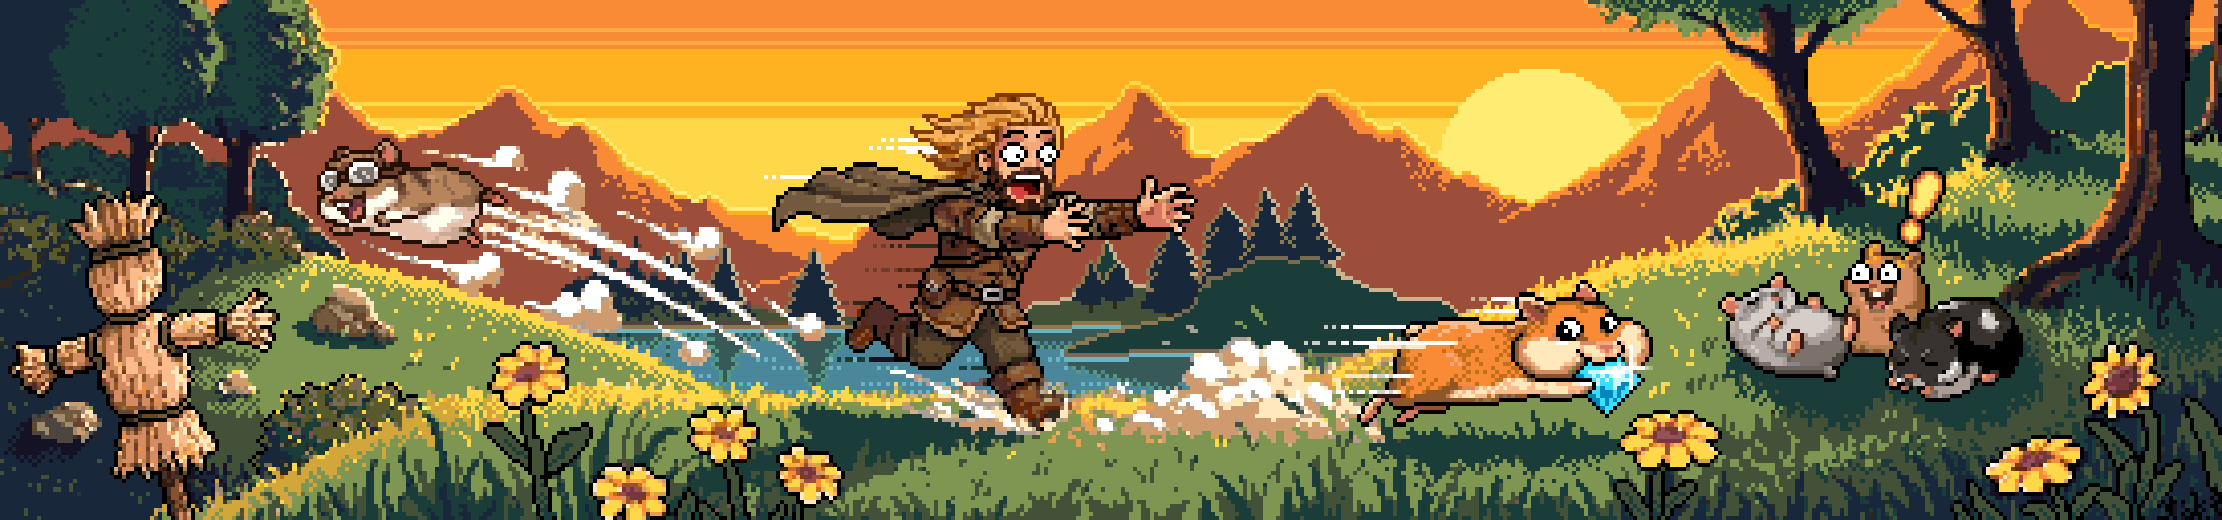
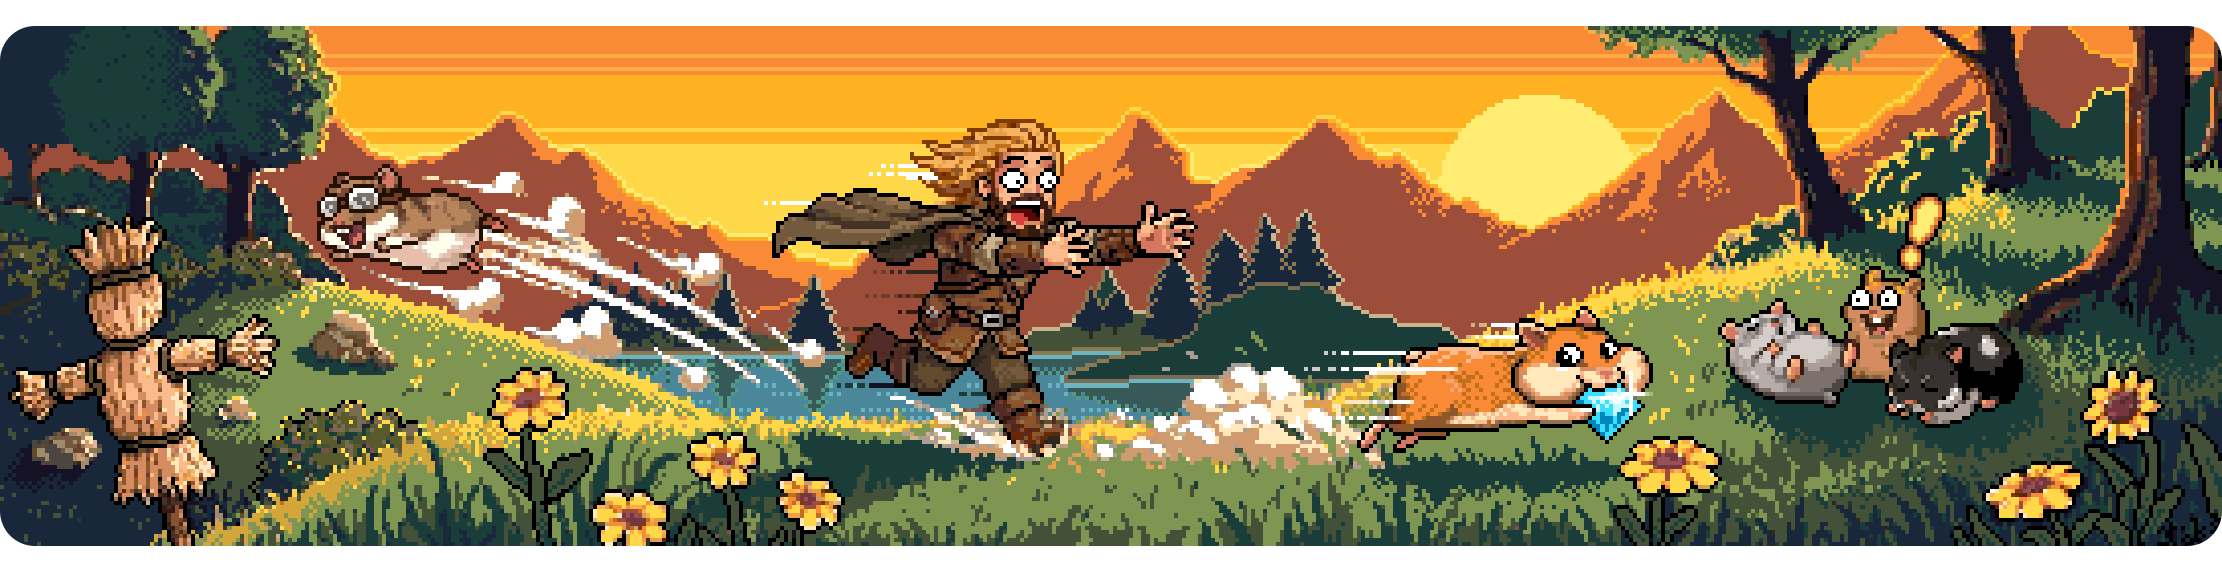
[DOC] Update CHANGELOG.md and README.md

diff --git a/CHANGELOG.md b/CHANGELOG.md
@@ -7,7 +7,51 @@ and this project adheres to [Semantic Versioning](https://semver.org/spec/v2.0.0
 
 ## [3.5.0] - 2025-12-19
 
+# The Tactical Fluff & Tree Heist Update
+
+The hamsters were too squishy. This update introduces military-grade protection for your rodents and a questionable, overengineered new method of deforestation.
+
 ### Added
+- **Hamster Armor System**
+  - **Acorn Armor:** The biodegradable base tier. Crafted from Acorn Shards and an Acorn Hat. It works like Wolf Armor— completely negating damage until it breaks.
+  - **Tiered Upgrades:** Use the Smithing Table to plate your Acorn Armor with Iron, Gold, Diamond, or Netherite using new **Smithing Templates** found in places where normal smithing templates are usually found.
+  - **Tactical Perks:**
+    - **Gold:** Grants 15% extra movement speed.
+    - **Netherite:** Grants extreme knockback resistance.
+    - **Diamond:** Cures kleptomania. Hamsters wearing diamond armor will **fetch** valuables instead of stealing them.
+- **New Tree Heist Mechanic**
+  - **The Trigger:** Throw your hamster at an Oak Tree (or dismount them while staring at Oak Leaves) to initiate a heist.
+  - **The Simulation Architecture:**
+    - **Intelligent Canopy Mapping Algorithm:** Upon impact, a Gradient Descent Scan locates the trunk anchor. Then a Breadth-First Search utilizes leaf distance gradients to intelligently segment overlapping foliage, allowing the system to isolate and map the specific 3D shape of a single tree, even within a dense forest where the leaves are all touching.
+    - **Proxy Entity:** Your physical hamster is temporarily swapped for an invisible, weightless `TreeSearcher` entity. This proxy physically navigates the mapped leaf volume for that specific tree in real-time, randomizing its path to "rummage" for acorns.
+    - **Spatial Integrity:** The system verifies the tree's structural integrity every second. If you chop the tree down while a heist is active, the proxy detects the destruction, forces an emergency eject, and your hamster exits.
+  - **Visual & Audio Fidelity:**
+    - **Reactive Foliage:** A deterministically randomized physics simulation makes the leaves physically jiggle and shudder as the proxy moves through them. Each block has a unique oscillation pattern derived from its coordinates, further selling the "scurrying" effect.
+    - **Dynamic Audio:** Sound sources track the invisible proxy's position, meaning you can hear exactly where your hamster is inside the canopy.
+  - **The Economy:** Trees possess persistent "profitability" memory. Over-farming the same coordinates depletes yields until your hamster finds nothing and pouts.
+- **New Accessory**
+  - **Acorn Hat:** Increases Tree Heist profitability by 2x, yielding more acorns. Fashionable and functional.
+- **New Ingredient**
+  - **Acorn Shards:** Processed Acorns used to construct the base armor.
+- **New Inventory Slots**
+  - Added dedicated **"Bling"** and **"Armor"** slots with interactive UI sounds.
+- **8 New Advancements**
+  - "Tree Heist" (Start a Tree Heist)
+  - "Return on Investnut" (Obtain an Acorn)
+  - "Ecological Menace" (Exaust a tree's supply)
+  - "Industrial Nutcracking" (Obtain Acorn Shards).
+  - "Hardened Salad" (Craft Acorn Armor)
+  - "Squirrel Cosplay" (Equip Acorn Hat)
+  - "Expensive Therapy" (Craft Diamond-Plated Acorn Armor)
+  - "The Immovable Object" (Craft Netherite-Plated Acorn Armor)
+- **Global Loot Table Injection**
+  - **Seeds:** You can now find Cucumber, Green Bean, and Sunflower seeds scrounging around in Village, Dungeon, and Mineshaft chests.
+  - **Hamster Armor:**
+    - **Acorn Base, Iron, Gold):** Found in Dungeons, Temples, and Mineshafts.
+    - **Diamond:** Found in Nether Fortresses, Bastions, Strongholds, and End Cities.
+    - **Netherite:** This can only be crafted, just like vanilla horse armor.
+  - **Smithing Templates:** The blueprints for advanced armor are now scattered across the world (Mineshafts, Pyramids, Strongholds, and Bastions).
+  - **The Acorn Hat:** This legendary fashion statement can now be found in Ancient Cities, Woodland Mansions, and Buried Treasure. Happy hunting.
 - **Legacy Forge Support** (Thanks to [@Konkeeztador](https://nolink.com)!)
   - Added data structures and loading conditions to ensure the mod tags/recipes load correctly on the legacy Forge loader.
 - **Mod Compatibility Improvements** (Thanks to [@CasualAnimalEnjoyer](https://github.com/CasualAnimalEnjoyer)!)
@@ -21,10 +65,18 @@ and this project adheres to [Semantic Versioning](https://semver.org/spec/v2.0.0
   - The food refusal logic now intelligently selects between sitting, standing, and moving headshake animations.
 
 ### Changed
+- **Diamond Stealing AI**
+  - Refactored the diamond stealing behavior system. Hamsters now intelligently switch between "Theft Mode" (Taunting) and "Delivery Mode" (Presenting) based on the item type and their current equipment. (Configurable)
 - **Refusal Interactions**
   - Attempting to open a locked cheek pouch now triggers the same new intelligent headshake animations (sitting/standing/moving) used for food refusal.
 - **Item Stealing**
   - Hamsters now use their sprinting animation/speed (1.5D) when running towards a diamond to steal it, matching their flee speed. Originally I had them walking at normal speed so as not to alert the player that they were about to steal the diamond, but I changed my mind and I think it's a lot cuter if they sprint over to it.
+- **Dynamic Aerodynamics**
+  -   Hamsters now react to gravity with appropriate drama. The "Flying" animation and dynamic nose-dive rotation logic are no longer exclusive to the Hamster Yeet.
+  -   Any significant fall— whether it's jumping off a ledge or popping out of a tree— will now automatically trigger the flight pose and dynamic pitch rotation, ensuring they always look like they are falling.
+- **Pink Petal Accessories**
+  - Updated rendering to use **3D models** instead of flat texture overlays.
+  - Petals now have depth and similar positioning on the hamster's head, side, and back.
 
 ### Fixed
 - **Data Structure & Recipes** (Thanks again [@CasualAnimalEnjoyer](https://github.com/CasualAnimalEnjoyer)!)

diff --git a/README.md b/README.md
@@ -140,6 +140,24 @@ But be warned: sometimes, in their eagerness, these little geologists might get 
 
 This whole ore-seeking escapade is, of course, configurable.
 
+<p align="left"><img src="https://raw.githubusercontent.com/DawsonBodenhamer/AdorableHamsterPets-Source/develop/media/ahp_readme_divider_commercial_break.png" alt="Commercial break" width="100%"></p>
+
+## So, you want a server. Here's 25% off your first one.
+
+I did some through research into the best hosting services based on my four top priorities:
+- Modded Support
+- Customer Support
+- Hardware Power Per Dollar
+- Uninterrupted Uptime
+
+I can honestly recommend **Apex Hosting** for the job— they consistently came out on top when compared to other similar services. And if you click the banner below, it helps fund future updates for Adorable Hamster Pets!
+
+<p align="center">
+  <a href="https://apexhost.gg/TheScarletFox">
+    <img src="https://raw.githubusercontent.com/DawsonBodenhamer/AdorableHamsterPets-Source/develop/media/AHP_apex_hosting_banner_1235x118.png" alt="Apex Hosting Affiliate Banner" width="100%">
+  </a>
+</p>
+
 <p align="left"><img src="https://raw.githubusercontent.com/DawsonBodenhamer/AdorableHamsterPets-Source/develop/media/ahp_readme_divider_item_stealing_the_game_of_tag.png" alt="Item Stealing & The Game of Tag" width="100%"></p>
 
 Your hamster's love for shiny things may have evolved into full-blown kleptomania. If you carelessly leave valuable items (like, say, diamonds) on the ground, your tamed companion might just decide it's time for a game.
@@ -352,15 +370,17 @@ I'd like to claim I did this all by myself while meditating on a mountain peak, 
 | [**@Konkeeztador**](https://nolink.com)                            | For adding data structures and loading conditions to ensure the mod tags/recipes load correctly on the legacy Forge loader.                                                                                              |
 | [**@Kazerio**](https://modrinth.com/user/kazerio)                  | For adding compatibility with Xaero's Minimap so it shows hamster icons.                                                                                                                                                 |
 | [**@ZeMonkey**](https://nolink.com)                                | For the moral support and technical wizardry that prevented me from giving up during the terrifying transition to multi-loader support.                                                                                  |
+| [**@Saint_Victus**](https://nolink.com) | For birthing the "Battle Hamster" brain-child, and commisioning riding mechanics.                                                                                                                                        |
 
 ### <font color="teal">Snack Providers</font>
 
 These generous souls contributed to the project to keep the lights on and the hamster wheels spinning. They are awesome and, yes, fully awesome. Did I say they are awesome?
 
-| Name                                                     | Fun Fact                                                                |
-|:---------------------------------------------------------|:------------------------------------------------------------------------|
-| [**@The Retro Stitcher**](https://theretrostitcher.com/) | Rumored to dream exclusively in pixel art with a precise color palette. |
-| [**@Slicktopia**](https://ko-fi.com/slicktopia)          | Single-handedly influencing the global virtual cheese economy.          |
+| Name                                                     | Fun Fact                                                                                     |
+|:---------------------------------------------------------|:---------------------------------------------------------------------------------------------|
+| [**@The Retro Stitcher**](https://theretrostitcher.com/) | Rumored to dream exclusively in pixel art with a precise color palette.                      |
+| [**@Slicktopia**](https://ko-fi.com/slicktopia)          | Single-handedly influencing the global virtual cheese economy.                               |
+| [**@Saint_Victus**](https://nolink.com) | Frequently rides hamsters into battle after shrinking themselves down to the size of an ant. |
 
 ### <font color="teal">Dependencies</font>
 

diff --git a/README_CURSEFORGE_STYLE.md b/README_CURSEFORGE_STYLE.md
@@ -141,6 +141,24 @@ But be warned: sometimes, in their eagerness, these little geologists might get 
 
 This whole ore-seeking escapade is, of course, configurable.
 
+<img src="https://raw.githubusercontent.com/DawsonBodenhamer/AdorableHamsterPets-Source/develop/media/ahp_readme_divider_commercial_break.png" alt="Commercial break" width="100%">
+
+## So, you want a server. Here's 25% off your first one.
+
+I did some through research into the best hosting services based on my four top priorities:
+- Modded Support
+- Customer Support
+- Hardware Power Per Dollar
+- Uninterrupted Uptime
+
+I can honestly recommend **Apex Hosting** for the job— they consistently came out on top when compared to other similar services. And if you click the banner below, it helps fund future updates for Adorable Hamster Pets!
+
+<p style="text-align: center;">
+    <a href="https://apexhost.gg/TheScarletFox">
+        <img src="https://raw.githubusercontent.com/DawsonBodenhamer/AdorableHamsterPets-Source/develop/media/AHP_apex_hosting_banner_1235x118.png" alt="Apex Hosting Affiliate Banner" width="100%">
+    </a>
+</p>
+
 <img src="https://raw.githubusercontent.com/DawsonBodenhamer/AdorableHamsterPets-Source/develop/media/ahp_readme_divider_item_stealing_the_game_of_tag.png" alt="Item Stealing & The Game of Tag" width="100%">
 
 Your hamster's love for shiny things may have evolved into full-blown kleptomania. If you carelessly leave valuable items (like, say, diamonds) on the ground, your tamed companion might just decide it's time for a game.
